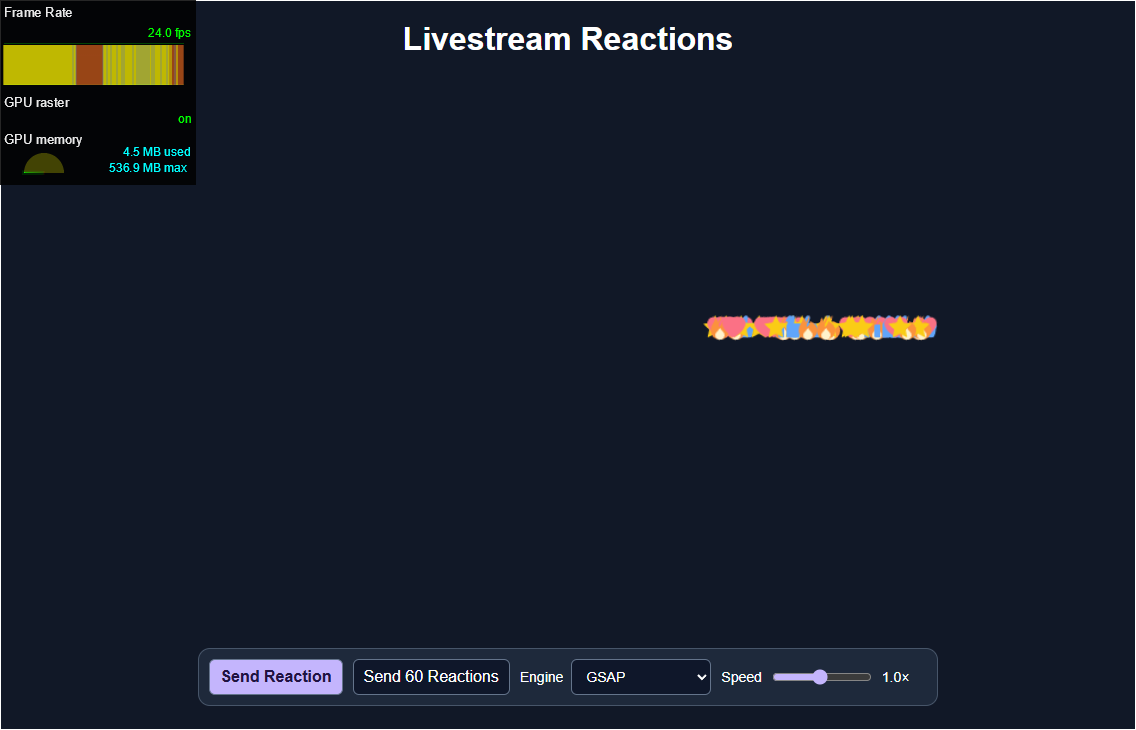
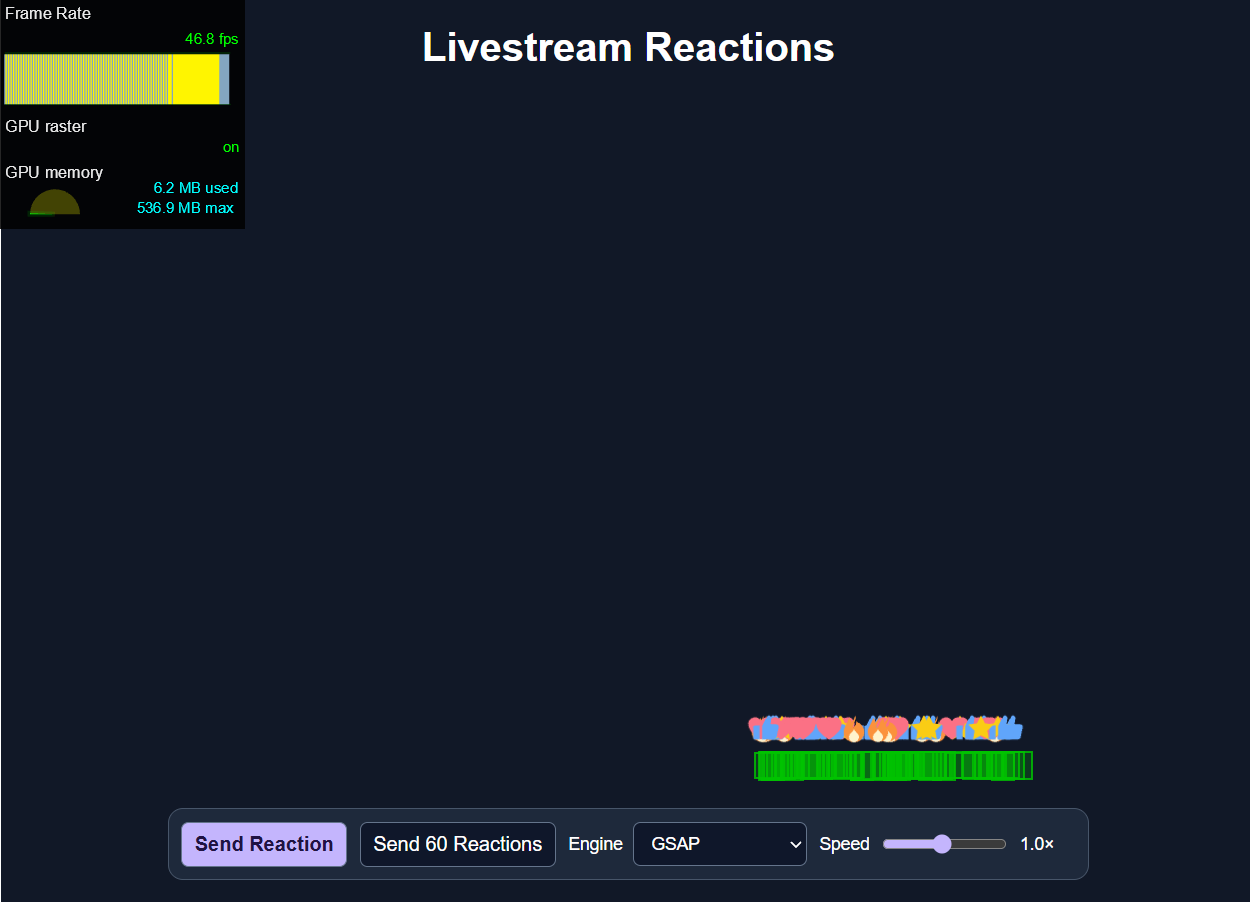
Update livestream reaction submission

diff --git a/README.md b/README.md
@@ -2,62 +2,73 @@
 
 ## 1. Setup & Running Instructions
 
-1. Open `index.html` in Google Chrome. The included GSAP 3.13.0 build lets both modes run with no installation or internet connection. [GSAP Standard License](https://gsap.com/standard-license/)
+1. Open `index.html` in Google Chrome.
 2. Choose **CSS keyframes** or **GSAP** under **Engine**. Click **Send Reaction** to see one flight, or **Send 60 Reactions** to test concurrency. Switching engines clears the stage and resets speed to `1.0×` for a fresh run.
 3. In **GSAP** mode, move **Speed** to `0.1×` while a burst is rising. The icons continue from their current positions at one tenth speed. At `1.0×`, each flight lasts three seconds. A new flight started at `0.1×` takes about 30 seconds.
 
-To reproduce the comparison, open **Show Rendering** from the DevTools Command Menu and enable **Paint Flashing** and **Frame Rendering Stats**. Open **Performance**, set **CPU** to **6× slowdown** under Capture settings, and record one **Send 60 Reactions** burst in each engine at normal speed. Stop after the icons disappear. Use the same viewport for both recordings and run the slow-motion check separately. [Chrome DevTools Performance reference](https://developer.chrome.com/docs/devtools/performance/reference/)
+To reproduce the comparison, open **Show Rendering** from the DevTools Command Menu and enable **Paint Flashing** and **Frame Rendering Stats**. Open **Performance**, set **CPU** to **6× slowdown** under Capture settings, and record one **Send 60 Reactions** burst in each engine at normal speed. Stop after the icons disappear. Use the same viewport for both recordings and run the slow-motion check separately. 
 
 ## 2. Phase 1: CSS Keyframes Analysis
 
+
+**CSS Paint Flashing**
+
+![CSS Paint Flashing](evidence/phase-1-css-paint-flashing.png)
+
+**CSS Performance Flame Chart**
+
+![CSS Flame Chart](evidence/phase-1-css-flame-chart.png)
+
+
+
+
 ### Benchmark at 6× CPU slowdown
 
-The reactions looked choppy and DevTools showed substantial paint activity during the initial interactive CSS run. For the comparison below, I re-recorded CSS mode using the final shared SVG assets. Both profiles used headless Chrome 157 on Windows, a 1136 × 730 viewport, 6× CPU slowdown, Paint Flashing, and Frame Rendering Stats. Each run spawned 60 of the same seeded icons and start positions at `1.0×`. Both runs reached 60 active elements and cleaned up to zero.
+The reactions looked choppy and DevTools showed substantial paint activity during the initial interactive CSS run. For the comparison below, I re-recorded CSS mode using the final shared SVG assets. Both profiles Chrome browser on Windows, 6× CPU slowdown, Paint Flashing, and Frame Rendering Stats. Each run spawned 60 of the same seeded icons and start positions at `1.0×`. Both runs reached 60 active elements and cleaned up to zero.
 
-The recording shows repeated **Recalculate Style**, **Layout**, and **Paint** on the main thread throughout the burst. The table covers the time between the spawn and cleanup marks.
 
-| Main-thread event | CSS count | CSS total time | GSAP count | GSAP total time |
-| --- | ---: | ---: | ---: | ---: |
-| Recalculate Style (`UpdateLayoutTree` in the trace) | 15 | 1,046.1 ms | 216 | 568.4 ms |
-| Layout | 15 | 265.0 ms | 1 | 23.4 ms |
-| Paint | 915 | 589.7 ms | 61 | 38.7 ms |
 
-### Why the burst stutters
+### What regions of the screen flashed green during high-concurrency spawning, and why?
 
 `bottom` controls upward travel, `margin-left` controls sway, and `font-size` controls growth. Changing these properties forces Chrome to update the geometry of the moving icons. Those changes can also invalidate pixels where the icons were drawn. The screenshot shows overlapping green rectangles clustered to the right of center, along the reactions' flight paths. The title and control bar show no green in that capture.
 
-### Evidence
+### What did the main thread activity (Layout, Recalculate Style, Paint) look like in the flame chart?
 
-- [Paint Flashing screenshot](evidence/phase-1-css-paint-flashing.png) captured during a separate 60-reaction burst with the same viewport and throttling settings.
-- [CSS flame chart screenshot](evidence/phase-1-css-flame-chart.png) with the **Main** track expanded.
-- [Chrome Performance recording](evidence/phase-1-css-performance.json.gz). In Chrome DevTools, open **Performance**, click **Load trace**, and select this file. Expand **Main** and look between **CSS: spawn 60 reactions** and **CSS: all reactions removed**.
+The **Main** track shows repeated purple **Recalculate Style** and **Layout** blocks followed by green **Paint** blocks throughout the 60-reaction burst. Chrome recalculated the animated CSS values, used Layout to update the icons' positions and sizes, then repainted the affected areas.
+
 
 ## 3. Phase 2: GSAP & Composited Rendering Analysis
 
-Both modes now clone the same four SVGs from an HTML template. In GSAP mode, the icon's starting position and size are set when it is created. Its timeline animates `y` and `scale` over three seconds, runs four `x` waypoints for the sway, and animates `opacity` during the last quarter. At completion, the callback removes both the element and its timeline reference. Chrome can composite the transform and opacity updates on the prepared layers while GSAP still uses JavaScript to advance the values. [GSAP CSSPlugin documentation](https://gsap.com/docs/v3/GSAP/CorePlugins/CSS/)
+Both modes now clone the same four SVGs from an HTML template. In GSAP mode, the icon's starting position and size are set when it is created. Its timeline animates `y` and `scale` over three seconds, runs four `x` waypoints for the sway, and animates `opacity` during the last quarter. At completion, the callback removes both the element and its timeline reference. Chrome can composite the transform and opacity updates on the prepared layers while GSAP still uses JavaScript to advance the values. 
 
-### Observations at 6× CPU slowdown
+
+**GSAP Paint Flashing**
+
+![GSAP Paint Flashing](evidence/phase-2-gsap-paint-flashing.png)
+
+**GSAP Performance Flame Chart**
+
+![GSAP Flame Chart](evidence/phase-2-gsap-flame-chart.png)
+
+
+### How did the flame chart and frame rate change compared to Phase 1?
 
 - The CSS flame chart shows repeated Layout and Paint throughout the burst. In the GSAP trace, Layout appears once and the main thread spends much less time painting. GSAP's writes still generate style updates, so the flame chart has JavaScript and style work during flight.
 - The median gap between `requestAnimationFrame` callbacks fell from **207.1 ms** in CSS mode to **66.7 ms** in GSAP mode during the recordings. GSAP delivered callbacks more often under this workload. The screenshots include momentary FPS overlay readings from separate bursts. The callback gaps measure cadence over the recorded bursts.
+
+### What happened to the green paint invalidation areas once animations moved to composited transforms (`x`, `y`)?
 - The GSAP screenshot shows the icons in flight without the green trails visible in the CSS capture. Chrome still has to paint the icons to create their layer contents and can then move, scale, and blend those layers during the flight.
 
 ### Mid-flight speed check
 
 In a separate 6× CPU test, I started a 60-reaction GSAP burst at `1.0×`, then changed the slider to `0.1×` while the icons were ascending. All 60 timelines picked up the new speed with no position jump at the change. A sampled icon traveled about 97 px over 400 ms before the change and about 10 px over the next 400 ms. Setting the slider to `2.0×` finished the burst and left zero reaction elements and zero active timelines.
 
-### Evidence
-
-- [GSAP Paint Flashing screenshot](evidence/phase-2-gsap-paint-flashing.png) captured during a separate 60-reaction burst.
-- [GSAP flame chart screenshot](evidence/phase-2-gsap-flame-chart.png) with the **Main** track expanded.
-- [Chrome Performance recording](evidence/phase-2-gsap-performance.json.gz). Look between **GSAP: spawn 60 reactions** and **GSAP: all reactions removed** in the **Main** track.
 
 ## 4. Architectural Reflection
 
 ### Runtime control and developer experience
 
-CSS keyframes express the fixed flight in one rule, and CSS custom properties can provide per-icon offsets when the elements are created. Live speed changes and mid-flight edits require tracking each animation and its current progress. For example, the Web Animations API can expose a CSS animation's playback rate. Here, GSAP provides an explicit playhead and `timeScale()` for each flight. The range input updates every active timeline and supplies the initial speed for new flights. To redirect a reaction mid-flight, I would read its current position and start a new segment from there so its path changes smoothly. [GSAP timeline documentation](https://gsap.com/docs/v3/GSAP/Timeline/)
+Css keyfrmes are simple to implement and require no additional libraries, but changing the speed or direction while an animation is running requires extra JavaScript. GSAP is more complex but provides a better developer experience with its timeline and easing features. In the project, the speed slider updates all running animations and also controls the speed of new reactions. If I want to change a reaction's direction while it is moving, I can use its current position as the starting point for a new animation.
+### Pipeline Considerations
 
-### Vector assets and the rendering pipeline
-
-The SVG `viewBox` defines a coordinate system for each icon, and its paths can be drawn at different display densities and sizes. Most paths use `currentColor`, so a theme can change the icon colors with CSS. I would apply palette changes when the theme changes and keep the flight on transform and opacity. Updating an SVG's fill or path while it moves can require paint again, and promoting many separate moving icons consumes layer memory. A raster sequence can make sense for complex artwork with a fixed look, but supporting multiple themes and resolutions would require extra variants or a runtime tinting system.
+SVG is more flexible for dynamic themes because we can reuse the same asset and change its color using CSS. PNG sequences may require multiple image variants for different themes and resolutions. However, SVG changes can also trigger repainting, so we should mainly animate transform and opacity for better performance.
